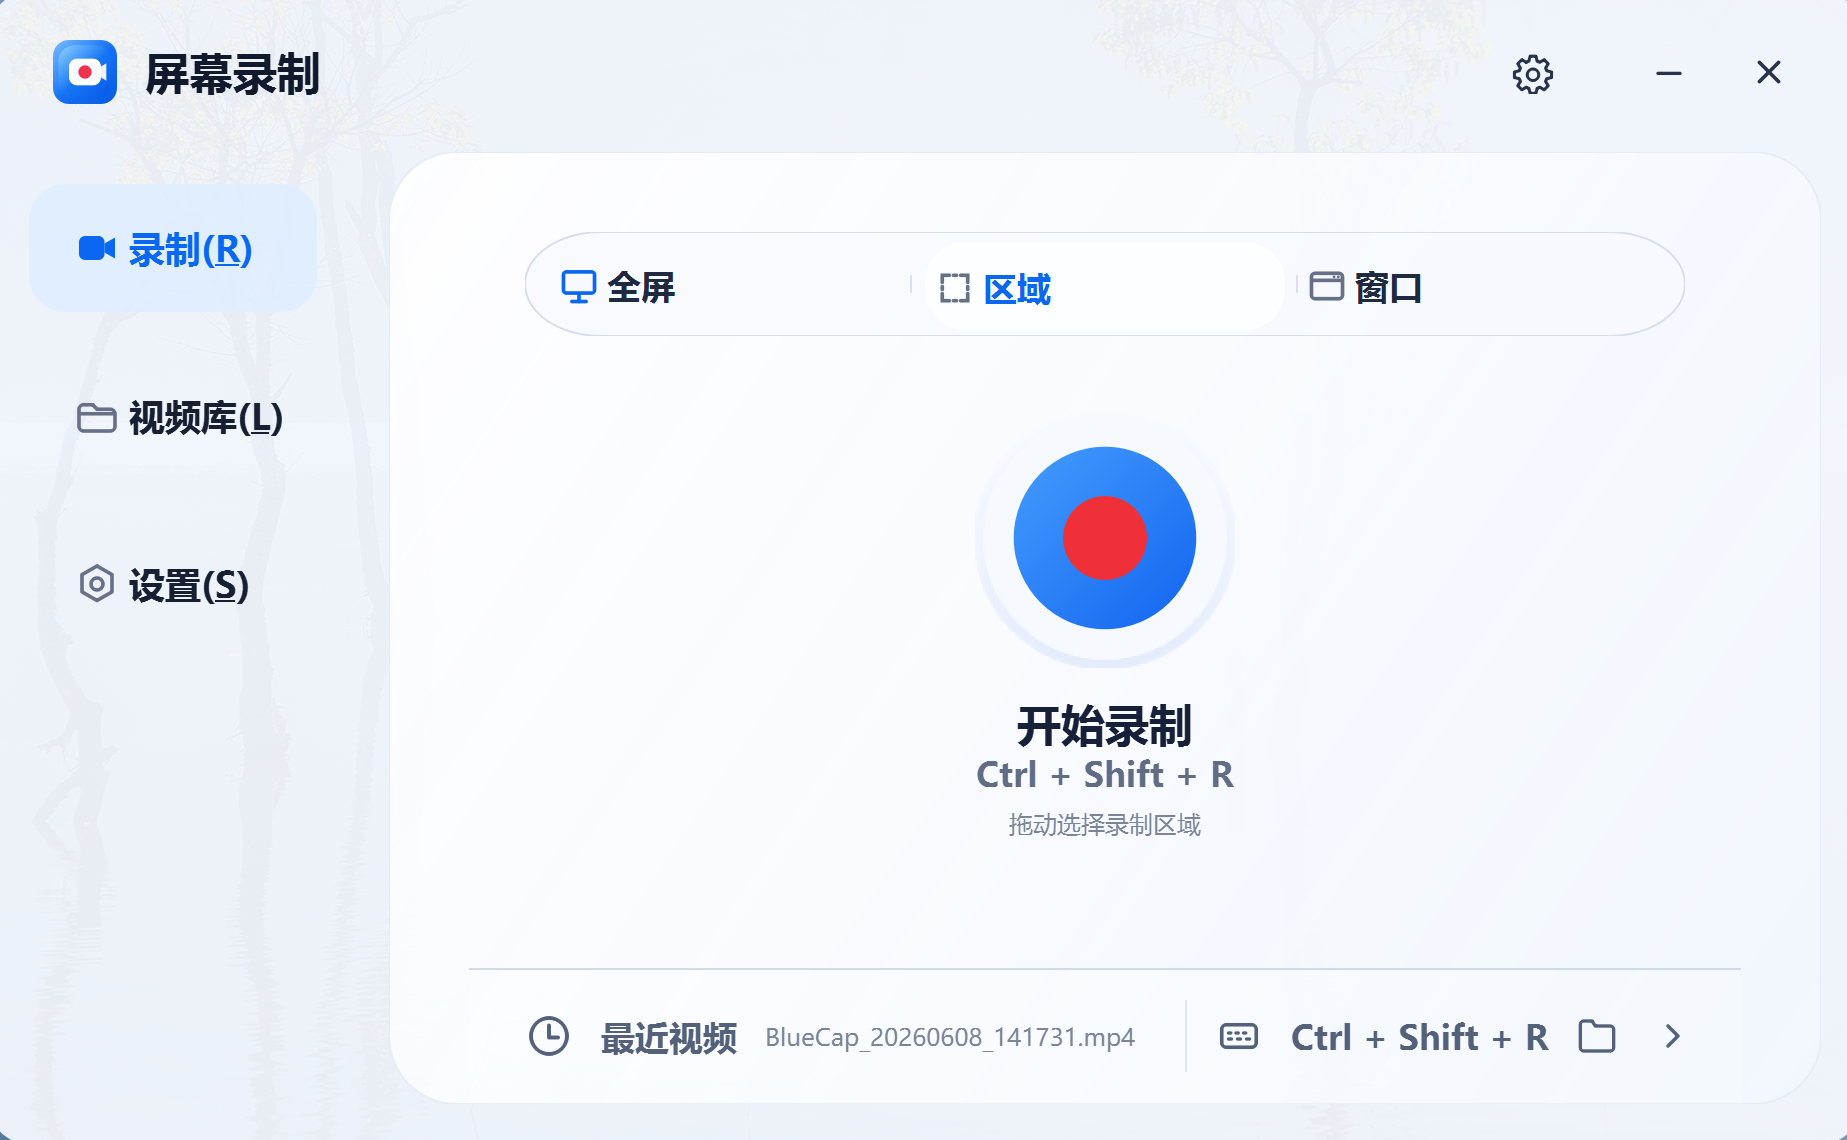
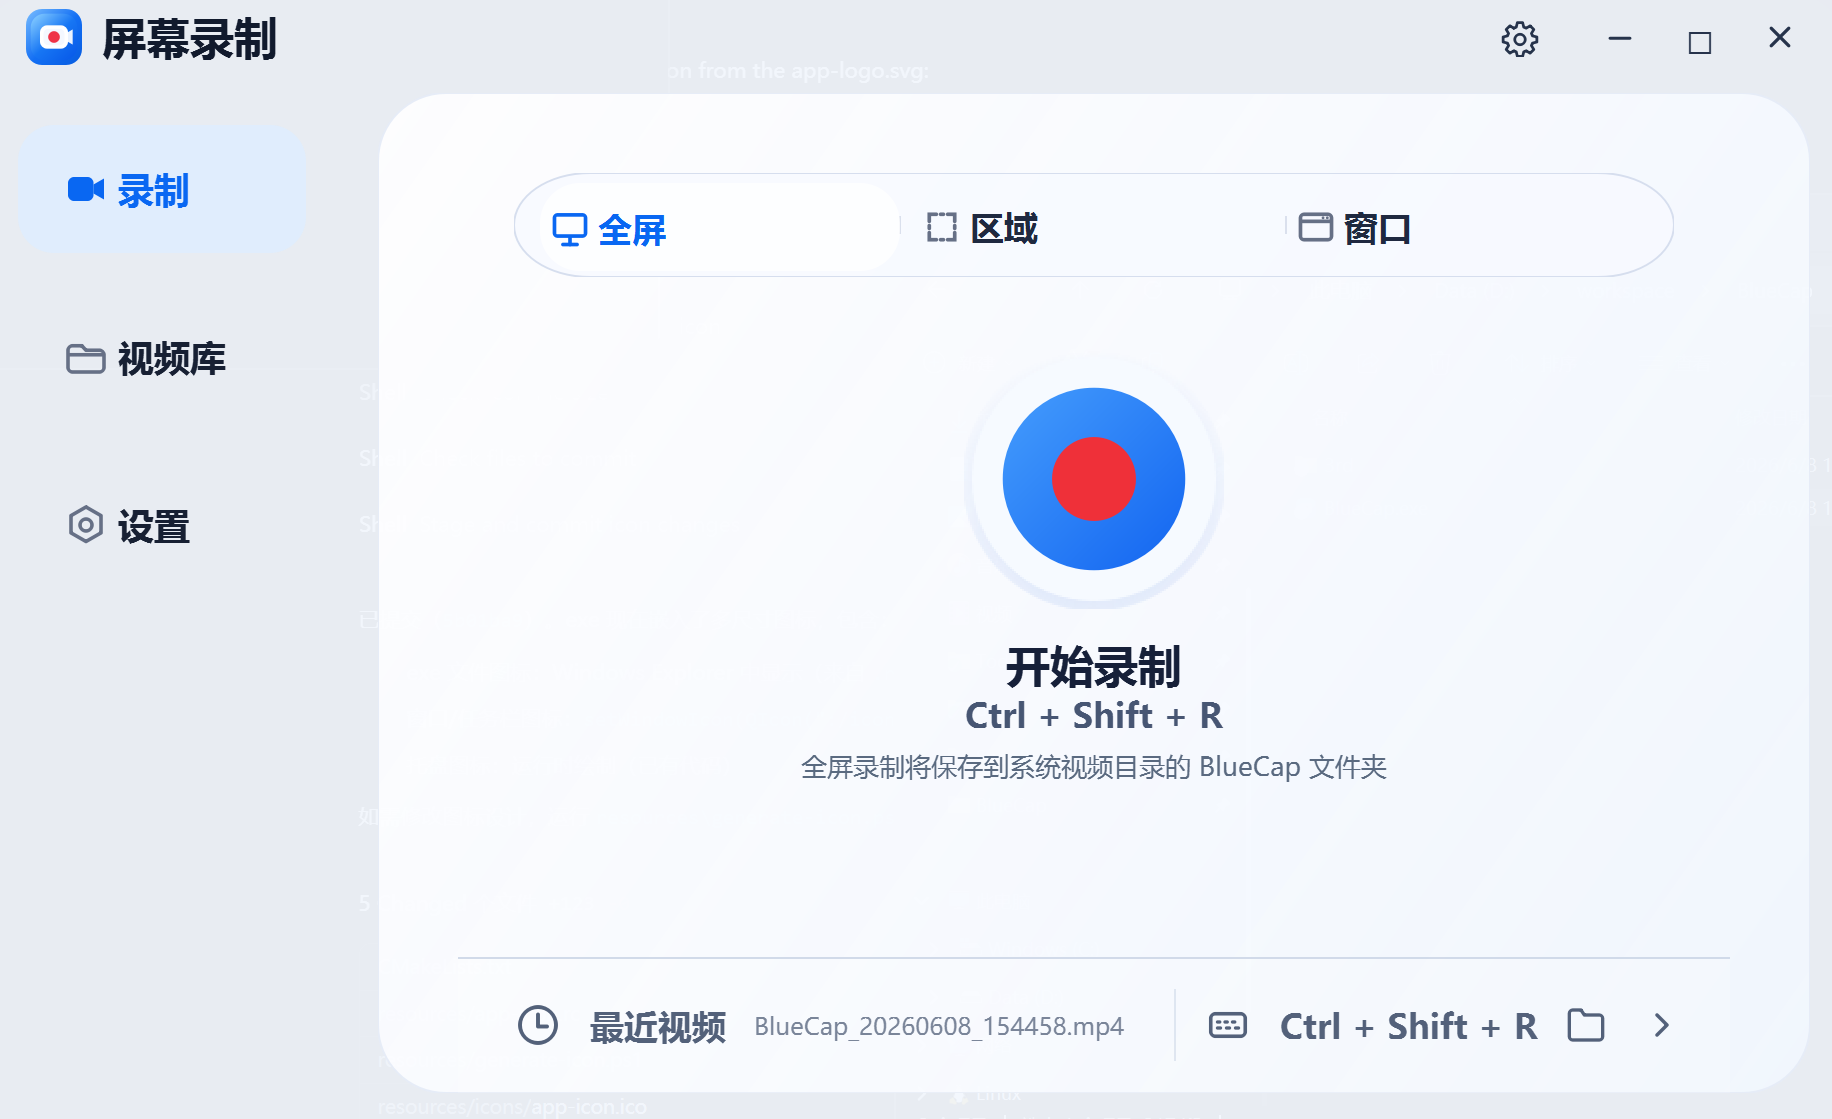
docs: update README to reflect current project structure and features

diff --git a/README.md b/README.md
@@ -1,73 +1,75 @@
 # BlueCap
 
-BlueCap 是一个基于 Qt5 的 Windows 屏幕录制工具。轻量、清爽、接近 Windows 11 视觉风格的桌面录屏应用，支持全屏、区域、窗口录制、系统托盘、全局快捷键及视频库管理。
-
 ![主界面](docs/images/light.png)
+
+BlueCap 是一个基于 Qt5 的 Windows 屏幕录制工具。轻量、清爽、接近 Windows 11 视觉风格的桌面录屏应用，支持全屏 / 区域 / 窗口三种录制模式，配备系统托盘、全局快捷键及视频库管理。
 
 ## 技术栈
 
-- UI 框架：Qt5 Widgets
+- UI 框架：Qt5 Widgets + Qt5 SVG
 - 开发语言：C++17
-- 构建工具：CMake
-- 首要平台：Windows
-- 录制后端：FFmpeg 可执行文件调用
+- 构建工具：CMake 3.16+
+- 首要平台：Windows（VS 工具链）
+- 录制后端：FFmpeg（`gdigrab`，进程调用）
 
-## 当前功能
+## 功能
 
-- 卡片式紧凑 UI 设计，无边框主窗口
-- 录制模式：全屏、区域（选区浮层）、窗口（非模态选择器）
-- 录制控制：开始/停止、倒计时（可取消）、脉冲动画录制指示器、计时器
-- 系统托盘：录制状态图标、快速录制、退出
-- 全局快捷键（需注册）
-- 区域选择：尺寸实时显示、Enter 确认、窗口位置记忆
-- 视频库：缩略图、重命名、搜索、空状态、点击打开/播放
-- 设置页：保存路径、自动保存反馈、鼠标光标选项
-- 录制文件保留策略、部分文件保留
-- 完成通知（显示文件大小）、状态栏文件可点击、底部栏交互区分
-- 阴影渲染优化、UI 线程异步化、设置贯通
+- **无边框窗口**，卡片式 UI + 圆角阴影 + 自定义标题栏
+- **三种录制模式**：全屏 / 区域（选区浮层，实时尺寸） / 窗口（搜索 + 筛选选择器）
+- **录制控制**：倒计时（可 Esc 取消）、脉冲动画指示器、计时器
+- **系统托盘**：录制状态图标、快速全屏录制、显示/隐藏、退出
+- **全局快捷键**：`Ctrl + Shift + R` 开始/停止
+- **视频库**：缩略图预览、重命名、搜索筛选、回收站删除、打开文件位置
+- **设置页**：帧率、画质（ultrafast → slow）、保存路径验证、鼠标光标选项、启停超时
+- **设置持久化**：`QSettings` 保存窗口位置、录制参数
+- **exe 应用程序图标**（内嵌多尺寸 ICO）
 
 ## 目录结构
 
 ```text
 BlueCap/
-  CMakeLists.txt
+  CMakeLists.txt          # CMake 构建配置
   LICENSE
   README.md
-  3rd/
-    ffmpeg/
-      ffmpeg.exe
-      ffplay.exe
-      ffprobe.exe
+  3rd/ffmpeg/             # 录制后端 FFmpeg
+    ffmpeg.exe
+  resources/
+    bluecap.qss           # 全局样式表
+    resources.qrc         # Qt 资源文件
+    app-icon.rc           # Windows 资源脚本（exe 图标）
+    generate-icon.ps1     # ICO 图标生成脚本
+    icons/                # SVG 图标 + 生成的 .ico
   src/
     main.cpp
-    ui/
+    ui/                   # 用户界面层
       MainWindow.*
       Sidebar.*
       RecordPage.*
       RecordButton.*
       ModeSwitch.*
-      PlaceholderPage.*
-    recorder/
+      RegionSelector.*
+      WindowPicker.*
+      SettingsPage.*
+      VideoLibraryPage.*
+    recorder/             # 录制控制层
       RecorderController.*
-    storage/
+    storage/              # 数据持久化层
       VideoLibrary.*
 ```
 
 ## 环境要求
 
-- Windows
+- Windows 10+
 - CMake 3.16+
-- Qt5，当前本地验证环境为 Qt 5.13.2
-- Visual Studio C++ 工具链
+- Qt 5.12+（当前验证环境 5.13.2）
+- Visual Studio 2017+ 工具链
 - `3rd/ffmpeg/ffmpeg.exe`
 
-当前项目使用 Qt5 Widgets：
-
 ```cmake
-find_package(Qt5 REQUIRED COMPONENTS Widgets)
+find_package(Qt5 REQUIRED COMPONENTS Widgets Svg)
 ```
 
-如果 CMake 找不到 Qt5，可以在配置时指定 Qt5 路径，例如：
+如果 CMake 找不到 Qt5，配置时指定路径：
 
 ```powershell
 cmake -S . -B build -DCMAKE_PREFIX_PATH="D:\Qt5.13.2\5.13.2\msvc2017"
@@ -80,13 +82,13 @@ cmake -S . -B build
 cmake --build build --config Debug
 ```
 
-生成的程序位于：
+生成的可执行文件：
 
 ```text
 build/Debug/BlueCap.exe
 ```
 
-CMake 会在构建后尝试把 `3rd/ffmpeg/ffmpeg.exe` 复制到程序输出目录：
+构建后会自动复制 FFmpeg 到输出目录：
 
 ```text
 build/Debug/3rd/ffmpeg/ffmpeg.exe
@@ -94,18 +96,21 @@ build/Debug/3rd/ffmpeg/ffmpeg.exe
 
 ## 录制说明
 
-第一版录制通过 `QProcess` 调用 FFmpeg：
+通过 `QProcess` 调用 FFmpeg，使用 Windows `gdigrab` 设备抓取屏幕：
 
 ```text
-ffmpeg -y -f gdigrab -framerate 30 -i desktop -c:v libx264 -preset ultrafast -pix_fmt yuv420p output.mp4
+ffmpeg -y -f gdigrab -framerate 30 -i desktop ^
+       -c:v libx264 -preset fast -pix_fmt yuv420p output.mp4
 ```
 
-录制文件默认保存到系统视频目录下的 `BlueCap` 文件夹，例如：
+- 区域录制：`-vf crop=w:h:x:y`
+- 窗口录制：`-i title=<窗口标题>`
+- 默认保存路径：`Videos/BlueCap/BlueCap_yyyyMMdd_HHmmss.mp4`
 
-```text
-Videos/BlueCap/BlueCap_yyyyMMdd_HHmmss.mp4
+## 图标
+
+运行 `resources/generate-icon.ps1` 可重新生成应用图标（基于 `app-logo.svg` 设计，输出 16/32/48/256 四尺寸 ICO）：
+
+```powershell
+powershell -ExecutionPolicy Bypass -File resources/generate-icon.ps1
 ```
-
-## 备注
-
-当前 `3rd/ffmpeg` 只包含 FFmpeg 可执行文件，没有 `include` 和 `lib`。因此现阶段采用进程调用方式完成录制 MVP。后续如果补充 FFmpeg 开发库，可以再把录制层升级为直接调用 libavcodec/libavformat。